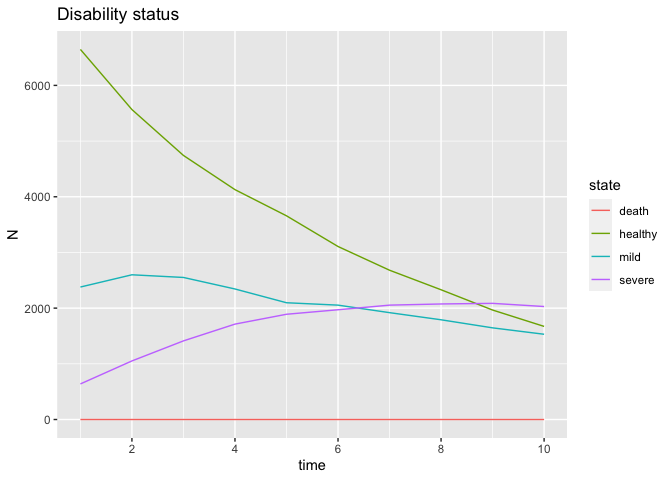
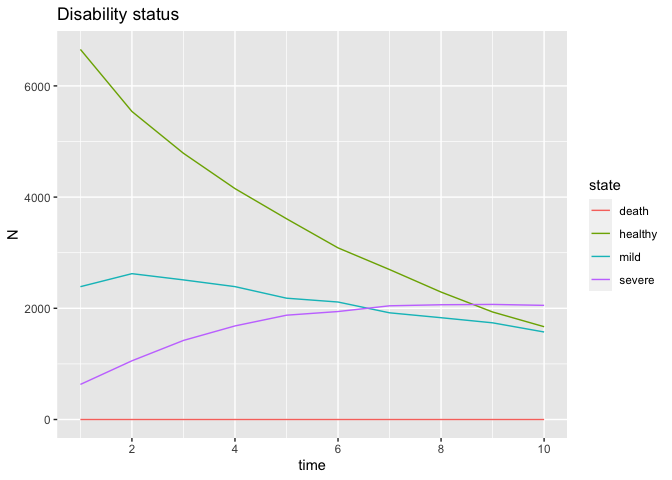
update

diff --git a/README.md b/README.md
@@ -3,11 +3,7 @@
 
 # microsim-disability
 
-<!-- badges: start -->
-
-<!-- badges: end -->
-
-# Import data and model
+## Import data and model
 
 ``` r
 library(dymiumCore)
@@ -34,7 +30,7 @@ a <- Agent$new(.data = population, id_col = "id")
 
 # add Agent to World
 w$add(a, name = "Agent")
-#> [11:52:15] WARN  dymiumCore w$add: The given `name` will be ignored since the object in x is of a Dymium class object. The classname of the object will be used as its name.
+#> [11:54:25] WARN  dymiumCore w$add: The given `name` will be ignored since the object in x is of a Dymium class object. The classname of the object will be used as its name.
 
 # convert the transition matrix to a format that dymiumCore can understand
 # see https://core.dymium.org/articles/dymium-intro.html#transition
@@ -48,7 +44,7 @@ trans_model <-
   .[, c("healthy", "mild", "severe", "death", "female") := NULL]
 ```
 
-# Create microsimulation events
+## Create microsimulation events
 
 ``` r
 event_disability <- function(w, model) {
@@ -86,7 +82,7 @@ event_age <- function(w) {
 }
 ```
 
-# Microsimulation pipeline
+## Microsimulation pipeline
 
 ``` r
 for (i in 1:10) {
@@ -94,16 +90,16 @@ for (i in 1:10) {
     event_age(.) %>%
     event_disability(., trans_model)
 }
-#> Removing 336 agents in 'death' state.
-#> Removing 447 agents in 'death' state.
-#> Removing 512 agents in 'death' state.
-#> Removing 520 agents in 'death' state.
-#> Removing 540 agents in 'death' state.
-#> Removing 513 agents in 'death' state.
-#> Removing 478 agents in 'death' state.
-#> Removing 458 agents in 'death' state.
+#> Removing 324 agents in 'death' state.
+#> Removing 457 agents in 'death' state.
 #> Removing 498 agents in 'death' state.
-#> Removing 466 agents in 'death' state.
+#> Removing 495 agents in 'death' state.
+#> Removing 557 agents in 'death' state.
+#> Removing 527 agents in 'death' state.
+#> Removing 481 agents in 'death' state.
+#> Removing 474 agents in 'death' state.
+#> Removing 444 agents in 'death' state.
+#> Removing 447 agents in 'death' state.
 ```
 
 # Visualisation
